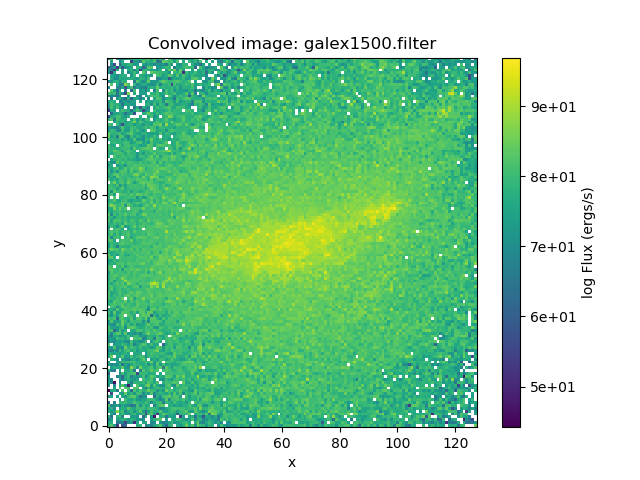
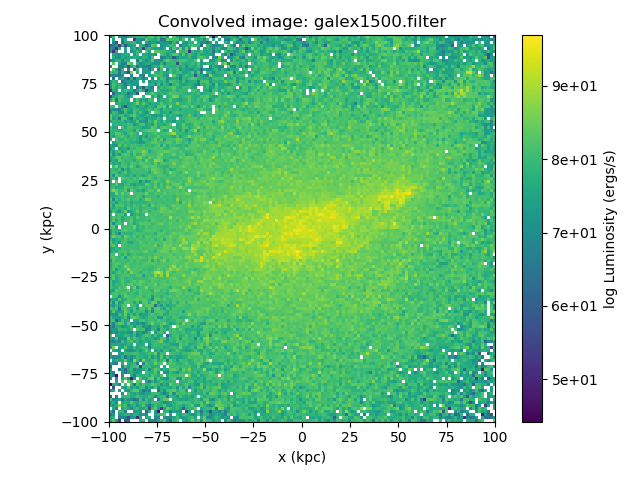
changed units on imaging display codes, fixed framing error in make_image_single_wavelength.py

diff --git a/image_processing.py b/image_processing.py
@@ -29,8 +29,8 @@ def convolve(image_file, filterfilenames, filter_data):
 
     # Get the image
     image = m.get_image(units='ergs/s')
-    
-    # Get image bounds for correct scaling    
+
+    # Get image bounds for correct scaling
     w = image.x_max * u.cm
     w = w.to(u.kpc)
 
@@ -53,7 +53,11 @@ def convolve(image_file, filterfilenames, filter_data):
         indices = []
         for wav in wavs:
             diffs = np.abs(image.wav - wav)
-            if min(diffs) <= np.std(diffs)/100.:
+
+            # Make sure the closest wavelength is *really* close --- there
+            # could be rounding errors, but we don't want to accidentally grab
+            # the wrong wavelength
+            if min(diffs) <= 1e-10:
                 indices.append(diffs.argmin())
 
         if len(indices) != len(wavs):
@@ -71,19 +75,20 @@ def convolve(image_file, filterfilenames, filter_data):
         print('\n Wavelength              Weight')
         print(' ----------              ------')
         for k in range(len(wavelengths)):
-            print('  {:.2E}              {:.2E}'.format(wavelengths[k], 
+            print('  {:.2E}              {:.2E}'.format(wavelengths[k],
                                                         weights[k]))
 
         # Apply appropriate transmissivities from filter file
         image_data.append(np.average(images, axis=0, weights=weights))
 
     # Save the image data and filter information as an .hdf5 file
-    f = h5py.File(cfg.model.PD_output_dir+"convolved."+cfg.model.snapnum_str+".hdf5", "w")
+    f = h5py.File(cfg.model.PD_output_dir+"convolved." +
+                  cfg.model.snapnum_str+".hdf5", "w")
     f.create_dataset("image_data", data=image_data)
     f['image_data'].attrs['width'] = w.value
-    f['image_data'].attrs['width_unit'] = 'kpc'    
-    f.create_dataset("filter_names", data=[filterfilenames[filterfilenames != 'arbitrary.filter']])
-    
+    f['image_data'].attrs['width_unit'] = np.bytes_('kpc')
+    f.create_dataset("filter_names", data=[
+                     filterfilenames[filterfilenames != 'arbitrary.filter']])
 
     for i in range(len(filterfilenames)):
         f.create_dataset(filterfilenames[i], data=filter_data[i])

diff --git a/convenience/make_image_single_wavelength.py b/convenience/make_image_single_wavelength.py
@@ -1,32 +1,24 @@
 import numpy as np
 import matplotlib.pyplot as plt
 from hyperion.model import ModelOutput
-from astropy.cosmology import Planck13
 import astropy.units as u
 
 # ------------------------
 # modifiable header
 # ------------------------
 
-m = ModelOutput('/Users/desika/Dropbox/powderday/verification/gadget/example.200.rtout.image')
-wav = 200 #micron
-redshift =2
-image_width = 200 #kpc
+m = ModelOutput(
+    '/Users/desika/Dropbox/powderday/verification/gadget/example.200.rtout.image')
+wav = 200  # micron
 
 # ------------------------
 
-
-distance = Planck13.luminosity_distance(redshift).cgs.value
-
-
 # Extract the image for the first inclination, and scale to 300pc. We
 # have to specify group=1 as there is no image in group 0.
-image = m.get_image(distance=distance, units='mJy')
+image = m.get_image(units='mJy')
 
 # Open figure and create axes
 fig = plt.figure()
-
-
 ax = fig.add_subplot(111)
 
 # Find the closest wavelength
@@ -36,23 +28,16 @@ iwav = np.argmin(np.abs(wav - image.wav))
 w = image.x_max * u.cm
 w = w.to(u.kpc)
 
+# plot the beast
+cax = ax.imshow(np.log(image.val[0, :, :, iwav]), cmap=plt.cm.magma,
+                origin='lower', extent=[-w.value, w.value, -w.value, w.value])
 
-
-#plot the beast
-
-cax = ax.imshow(np.log(image.val[0,:, :, iwav]),
-                cmap = plt.cm.viridis, origin='lower', extent=[-w.value, w.value, -w.value, w.value])
-
-
-plt.xlim([-image_width,image_width])
-plt.ylim([-image_width,image_width])
-    
 
 # Finalize the plot
 ax.tick_params(axis='both', which='major', labelsize=10)
-ax.set_xlabel('x kpc')
-ax.set_xlabel('y kpc')
+ax.set_xlabel('x (kpc)')
+ax.set_xlabel('y (kpc)')
 
-plt.colorbar(cax,label='Flux (mJy)',format='%.0e')
+plt.colorbar(cax, label='log Luminosity (ergs/s)', format='%.0e')
 
-fig.savefig('pd_image.png', bbox_inches='tight',dpi=150)
+fig.savefig('pd_image.png', bbox_inches='tight', dpi=150)

diff --git a/docs/quickstart.rst b/docs/quickstart.rst
@@ -108,9 +108,9 @@ name::
            [ 1.3702143e-01,  1.7650714e-01],
            ...
 
-The image width (``float``) and its units (``str``) are stored as attributes of
-the ``image_data`` dataset. To plot an image, one might do something like 
-this::
+The image width (``float``) and its units (``np.bytes_`` string) are stored as 
+attributes of the ``image_data`` dataset. To plot an image, one might do 
+something like this::
 
     import matplotlib.pyplot as plt
     import numpy as np
@@ -119,15 +119,16 @@ this::
     ax = fig.add_subplot(111)
 
     w = f['image_data'].attrs['width']
-    w_unit = f['image_data'].attrs['width_unit']
+    w_unit = f['image_data'].attrs['width_unit'].astype(str)
 
-    cax = ax.imshow(np.log(convolved_image), cmap=plt.cm.viridis, origin='lower',
-                    extent=[-w, w, -w, w])
+    cax = ax.imshow(np.log(convolved_image), cmap=plt.cm.viridis, 
+                    origin='lower', extent=[-w, w, -w, w])
     ax.tick_params(axis='both', which='major', labelsize=10)
     ax.set_xlabel('x ({})'.format(w_unit))
     ax.set_ylabel('y ({})'.format(w_unit))
-    plt.colorbar(cax, label='log Flux (ergs/s)', format='%.0e')
+    plt.colorbar(cax, label='log Luminosity (ergs/s)', format='%.0e')
     plt.title("Convolved image: {}".format(filter_name))
+    plt.tight_layout()
     plt.show()
 
 .. image:: images/galex1500_sample.png
